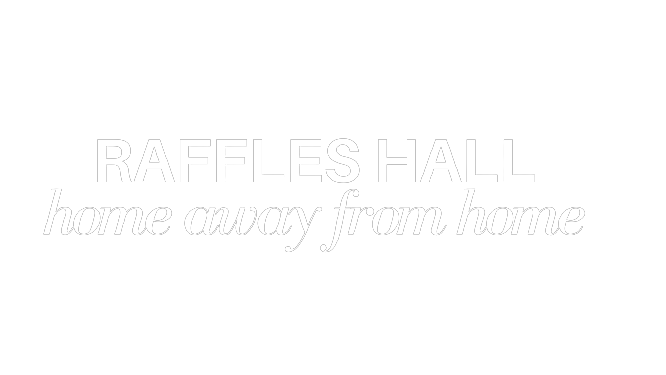
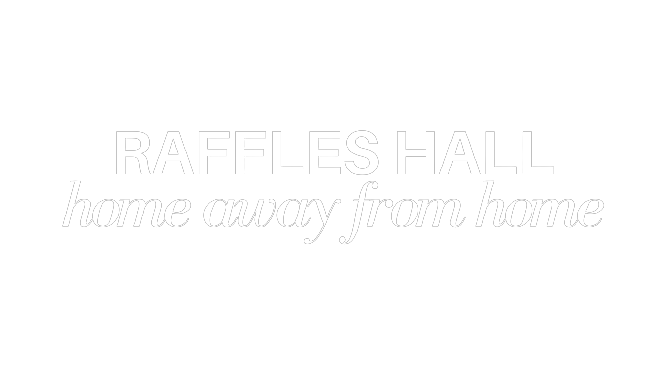
Fix Navbar bug
Updated Index.tsx to restore Navbar functionality

diff --git a/pages/index.tsx b/pages/index.tsx
@@ -21,6 +21,8 @@ const HomeContainer = styled.div`
 `
 
 const WelcomeContainer = styled.div`
+  display: flex;
+  flex-direction: column;
   text-align: center;
   justify-content: center;
   width: 100%;
@@ -31,18 +33,22 @@ const WelcomeContainer = styled.div`
   background-repeat: no-repeat;
 `
 
-const ImageWrapper = styled.div`
-  width: 100%;
+const ImageContainer = styled.div`
+  width: 60vw;
+  height: 100%;
+  max-width: 1000px;
+  position: relative;
+  top: 50%;
+  left: 50%;
+  transform: translate(-50%, -50%);
+  box-sizing: content-box;
 
-  div {
-    position: unset !important;
+  @media only screen and (max-width: 1000px) {
+    width: 70vw;
   }
 
-  .image {
-    object-fit: contain;
-    width: 100% !important;
-    position: relative !important;
-    height: unset !important;
+  @media only screen and (max-width: 500px) {
+    width: 90vw;
   }
 `
 
@@ -58,9 +64,9 @@ export default function Home() {
     <HomeContainer>
       <WelcomeContainer>
         <NavBar />
-        <ImageWrapper>
-          <Image src="/assets/welcomeText.png" objectFit="contain" fill={true} alt="Welcome Text" />
-        </ImageWrapper>
+        <ImageContainer>
+          <Image src="/assets/welcomeText.png" fill alt="Welcome Text" />
+        </ImageContainer>
       </WelcomeContainer>
       <Carousel imgArr={carouselPhotos} />
       <CaptionContainer>

diff --git a/components/PageNavBar.tsx b/components/PageNavBar.tsx
@@ -24,7 +24,7 @@ const PageNavBar = (props: Props) => (
   <MainContainer>
     {
       <Button
-        style={{ background: '#ab7865'}}
+        style={{ background: '#ab7865' }}
         type="primary"
         title="Previous"
         onClick={() => {
@@ -37,7 +37,7 @@ const PageNavBar = (props: Props) => (
     }
     {
       <Button
-        style={{ background: '#ab7865'}}
+        style={{ background: '#ab7865' }}
         type="primary"
         title="Next"
         onClick={() => {
